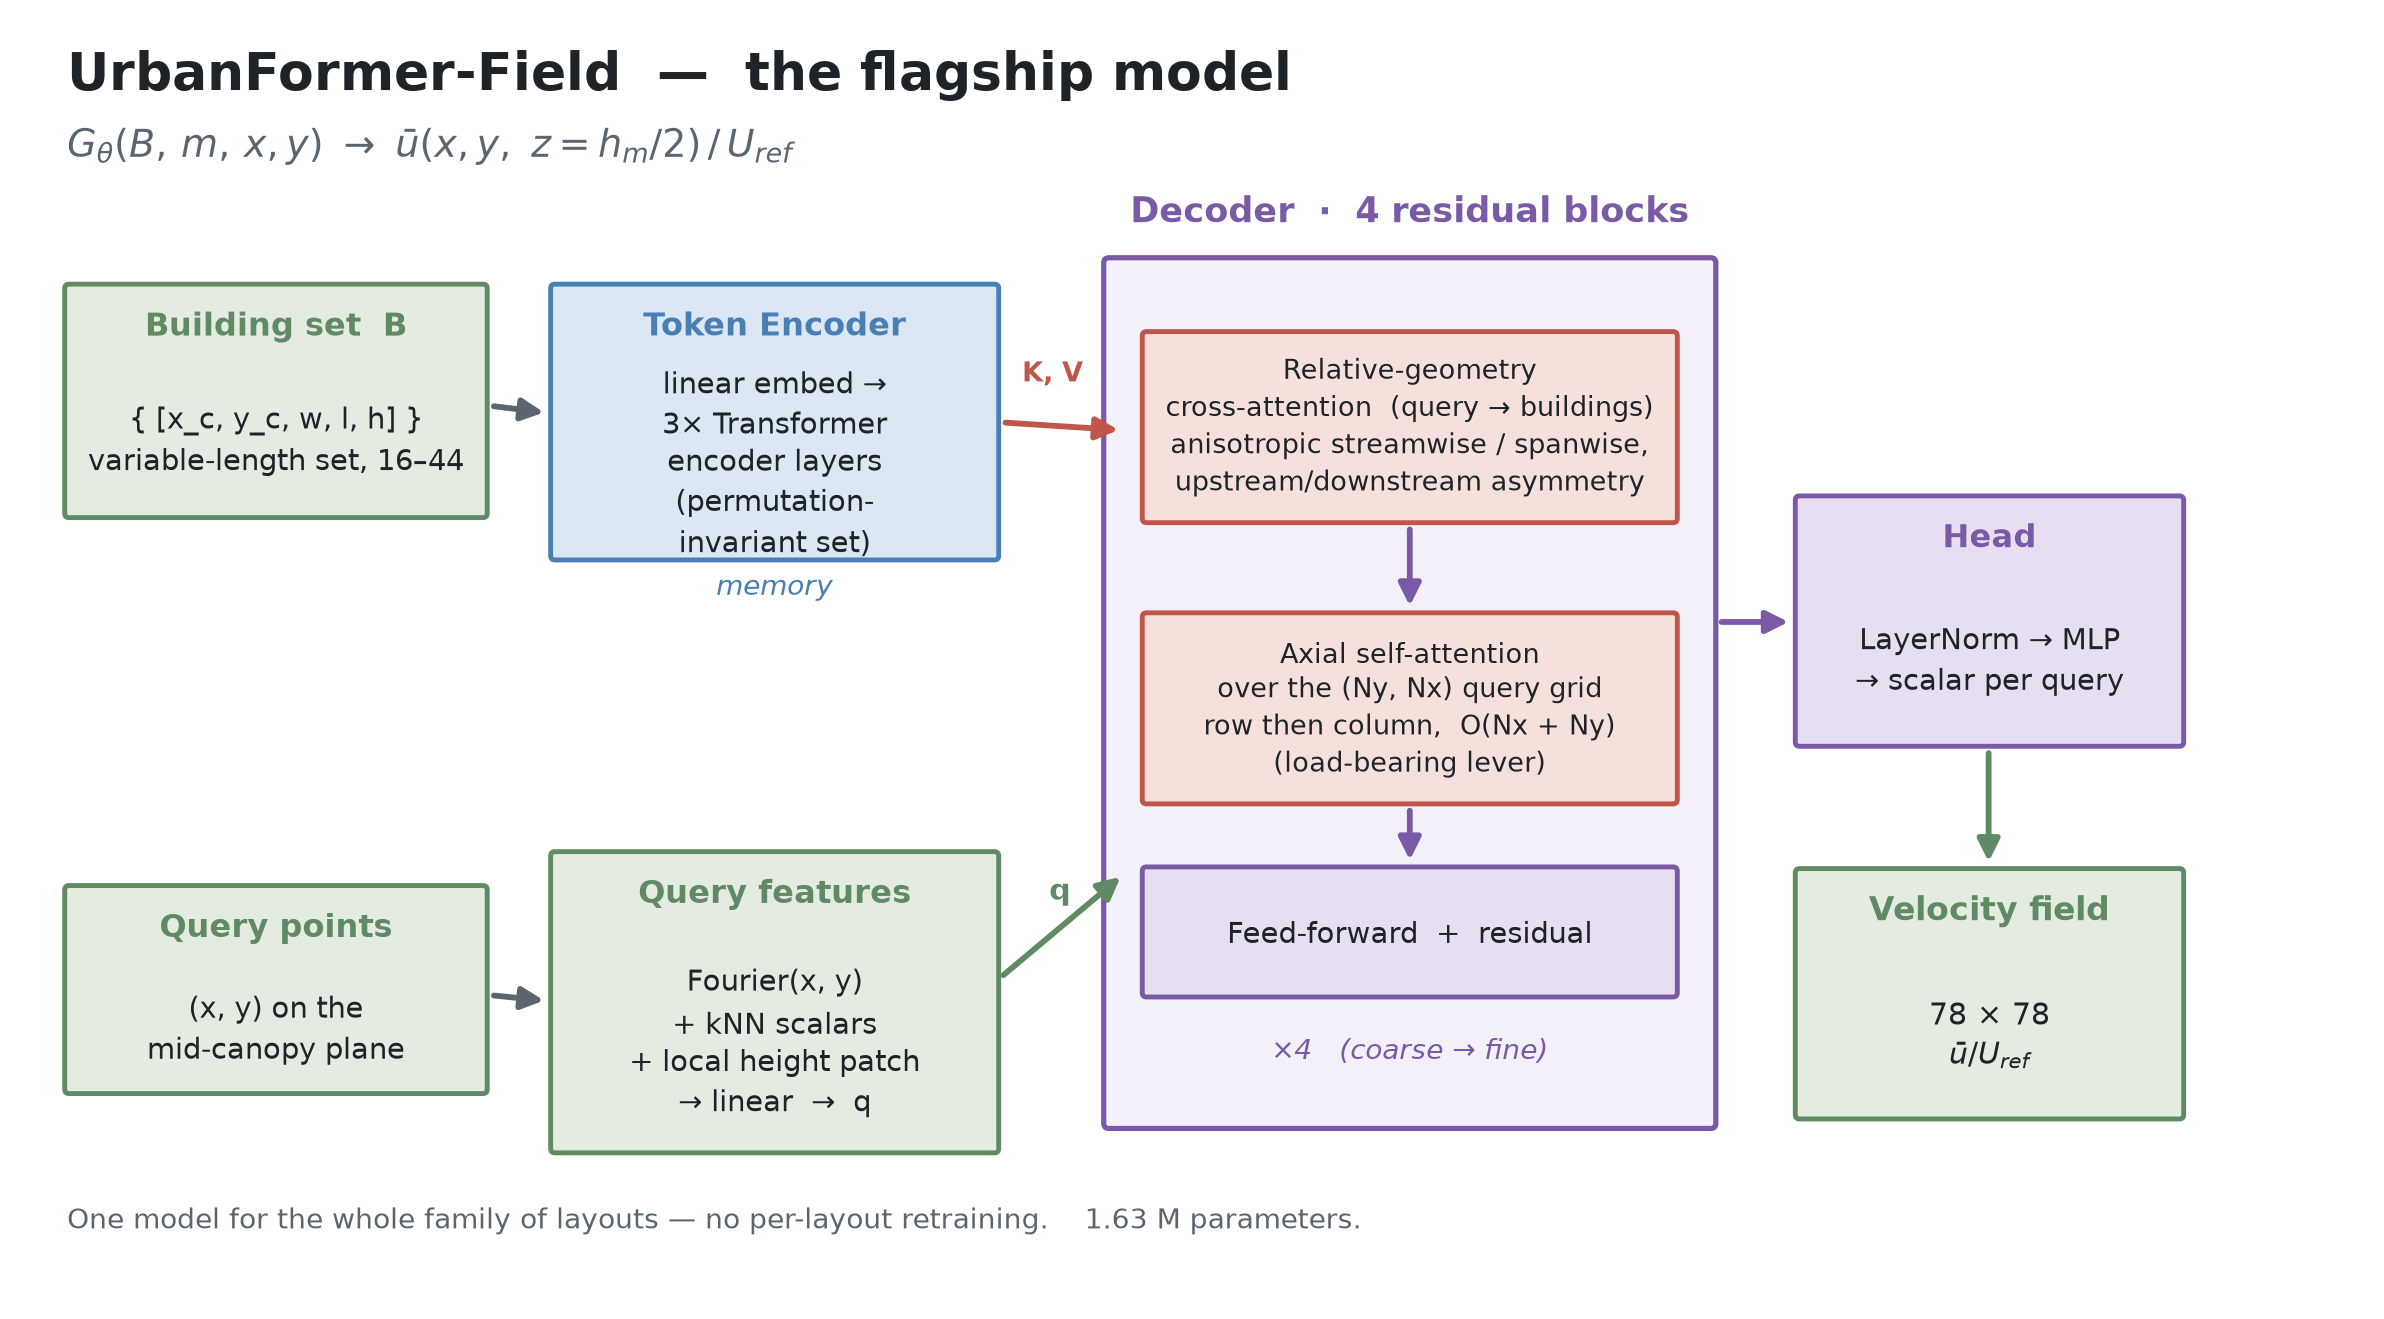
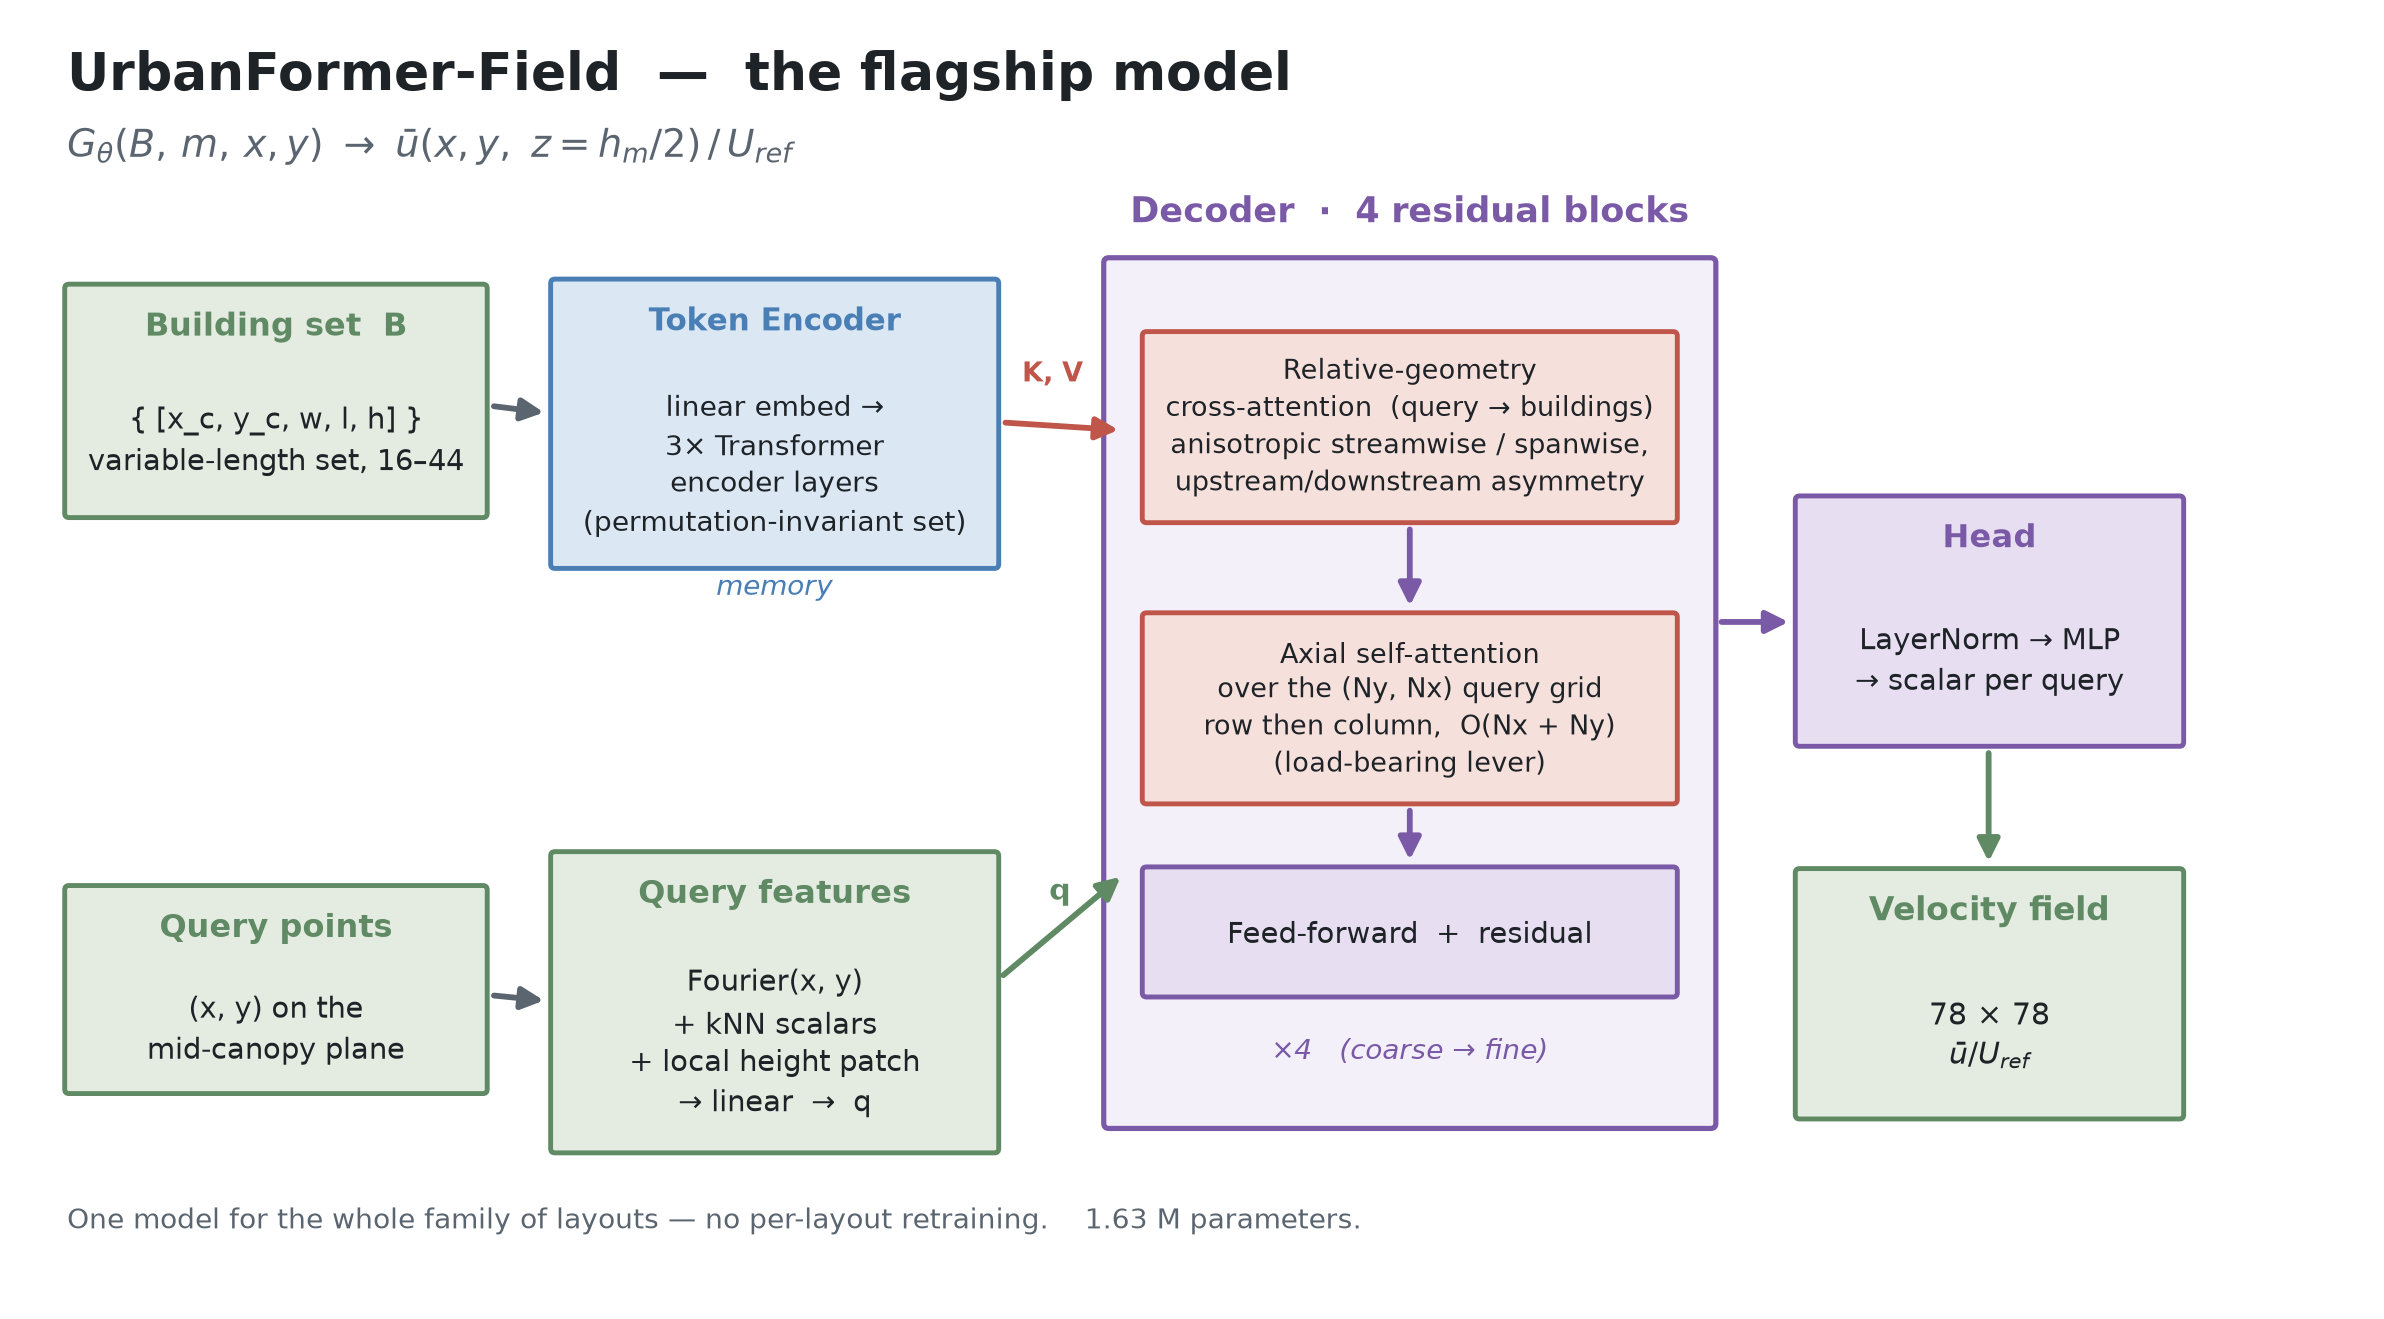
Fix Token Encoder text overflowing its box in the architecture figure
The encoder box body wrapped '(permutation-invariant set)' onto a 5th line that
spilled past the bottom border. Put it on one line (it fits the box width), drop
to 4 lines like the other blocks, and give the box slightly more height.

Changed region(s): [[0.2173, 0.1865, 0.4346, 0.4352]]

diff --git a/scripts/make_arch_figure.py b/scripts/make_arch_figure.py
@@ -74,9 +74,9 @@ def main() -> None:
         IO, IO_E, fs=9.6, title="Query points")
 
     # ---- encoder ----
-    box(ax, 3.05, 4.30, 2.60, 1.60,
-        "linear embed →\n3× Transformer\nencoder layers\n(permutation-\ninvariant set)",
-        ENC, ENC_E, fs=9.4, title="Token Encoder")
+    box(ax, 3.05, 4.25, 2.60, 1.68,
+        "linear embed →\n3× Transformer\nencoder layers\n(permutation-invariant set)",
+        ENC, ENC_E, fs=9.2, title="Token Encoder")
     ax.text(4.35, 4.08, "memory", fontsize=9.0, color=ENC_E,
             ha="center", style="italic")
 
